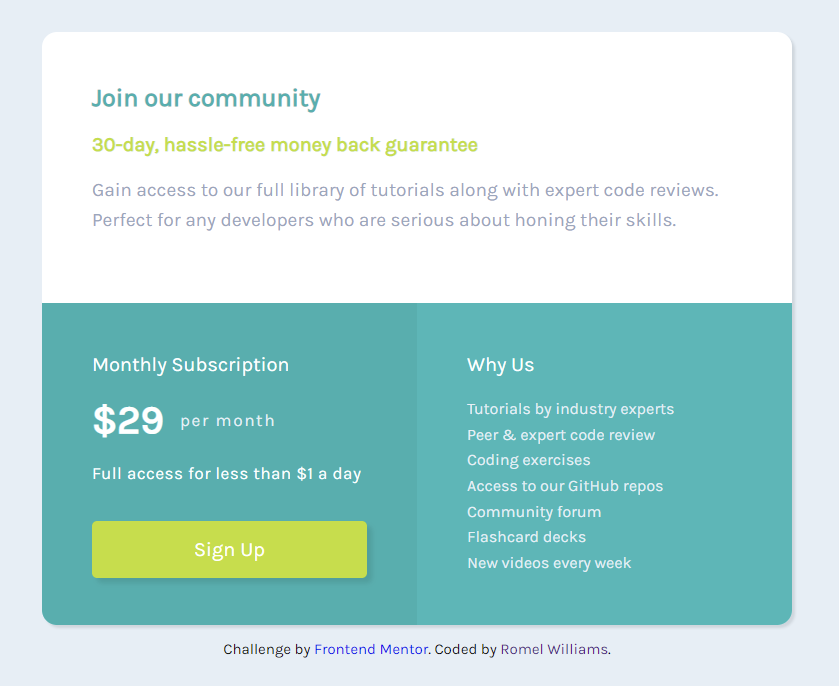
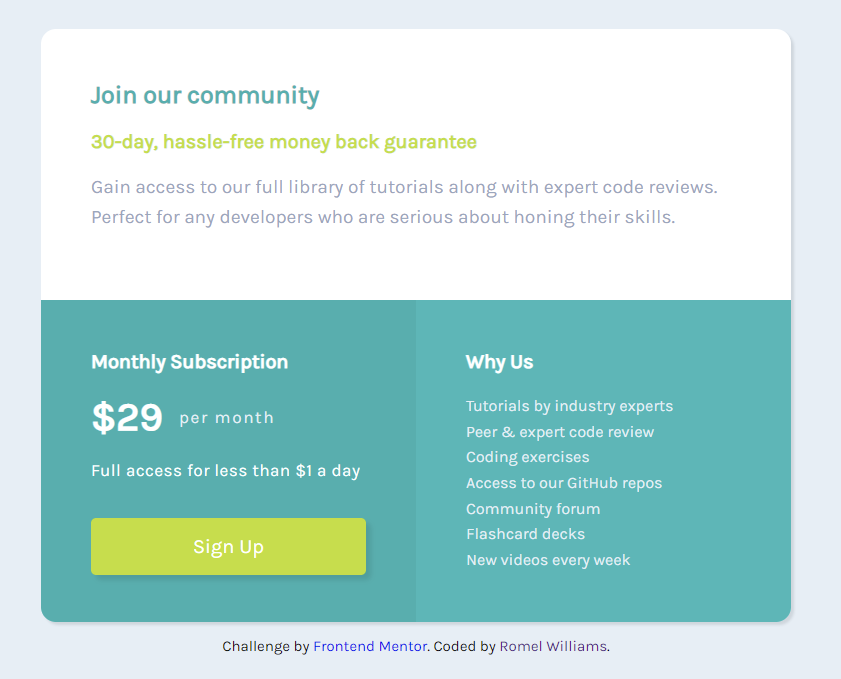
Updated the screenshot and adjusted the font-weight on the h2 tag.

diff --git a/style.css b/style.css
@@ -33,7 +33,7 @@ h2 {
 
 h3 {
   color: var(--neutral-white);
-  font-weight: 400;
+  font-weight: 700;
   font-size: 1em;
 }
 
